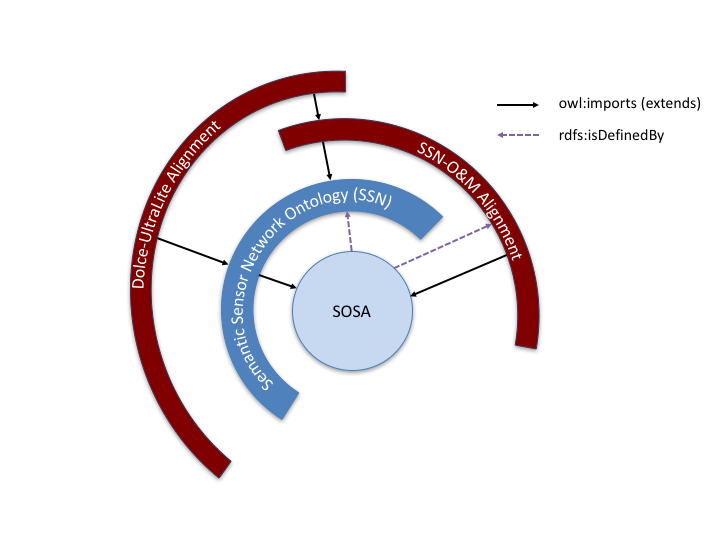
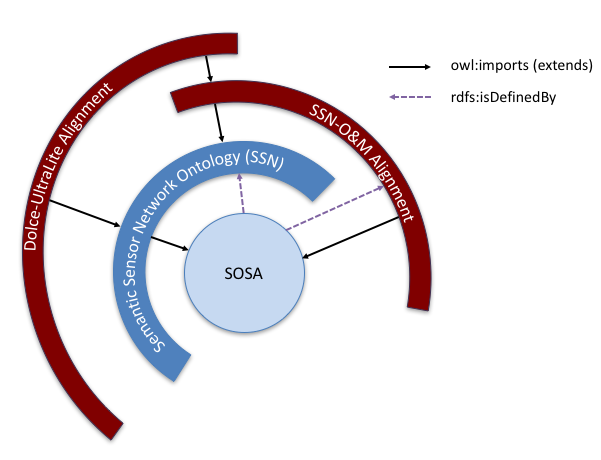
changed modularisation section, small fixes to SOSA

diff --git a/ssn/index.html b/ssn/index.html
@@ -170,17 +170,16 @@ specterm.h3 {
     <section  id="Modularisation"  class="informative">
       <h2>Modularisation</h2>
       <p> </p>
-      <p>One of the major issues <span  data-dobid="hdw">practitioner</span>s
-        raised with the Semantic Sensor Network Ontology as defined in the XG is
+      <p>One of the major issue <span  data-dobid="hdw">practitioners</span> using the Semantic Sensor Network Ontology as defined in the XG is
         its complexity, partly due to the layering underneath the DOLCE
-        UltraLite Upperlevel ontology. This section explains the rationale and
-        method for modularisation of the SSN.</p>
+        UltraLite Upperlevel ontology. In response to this, the new Semantic Sensor Network ontology offers several ontology subsets that are mainly distinguished through their ontological commitment. This section explains the rationale and
+        method for modularising SSN, i.e. offering several ontology files that are similar in their domain of discourse, but with different ontological commitments, suitable to several use cases.</p>
       <p>Ontology modularisation is a common method investigated in ontology
         engineering to segment an ontology into smaller parts. In general,
-        ontology modularization aims at providing users of ontologies with the
+        ontology modularisation aims at providing users of ontologies with the
         knowledge they require, reducing the scope as much as possible to what
         is strictly necessary in a given use case. Two main categories of
-        ontology modularization can be distinguished.</p>
+        ontology modularisation can be distinguished.</p>
       <p>The first category comprises of approaches that focus on the
         composition of existing ontologies by means of integrating and mapping
         ontologies, most commonly through <code>owl:import</code> statements.
@@ -213,8 +212,7 @@ specterm.h3 {
         depending on the directionality of the segmentation.</p>
       <img  alt="Ontology Modules"  src="images/modular_ontology.png">
       <p>Figure 1 gives an overview of the modules of the SSN ontology. The
-        layering of the rings represents two methods of segmentation we
-        distinguish, horizontal and vertical segmentation, as follows:<br>
+        layering of the rings represents a vertical segmentation, as follows:<br>
       </p>
       <h3> Vertical Segmentation</h3>
       <p>Vertical modules are build upon each other, i.e. they directionally <code>owl:import</code>
@@ -224,12 +222,9 @@ specterm.h3 {
         reasoning over its complete stack of vertical ontology modules. However,
         lower level modules are independent of their higher level modules and
         logically consistent.</p>
-      <p>For example, the Dolce-UltraLite Alignment ontology imports the Sensor
-        and Sensing Device Core and the Sensor Network Module. However, in
-        reverse, neither the Sensor and Sensing Device Core nor the Sensor
-        Network Module imports the Dolce-UltraLite Alignment ontology. This
-        makes the Sensor and Sensing Device Core, with its lightweight RDF(s)
-        semantics, truly independent of vertical modules that add more
+      <p>For example, the Dolce-UltraLite Alignment ontology imports the SOSA core and the Semantic Sensor Network Ontology. However, in
+        reverse, neither SOASA nor SSN import the Dolce-UltraLite Alignment ontology. This
+        makes the SOSA core, with its lightweight semantics, truly independent of vertical modules that add more
         expressivity and further ontological commitments.</p>
       <p>Note that higher level here is not to be confused with upper level
         ontologies. Upper level ontologies are general knowledge ontologies that
@@ -237,29 +232,6 @@ specterm.h3 {
         higher level ontologies here refers to an ontology that extends one or
         several ontology modules to capture a larger part of a knowledge domain
         and/or combine knowledge domains.</p>
-      <h3> Horizontal Segmentation</h3>
-      <p>Modules that are horizontally layered do not depend on each other, i.e.
-        they do not rely on the <code>owl:import</code> of another horizontal
-        module to lead to the same answers when reasoning over the module itself
-        as opposed to reasoning over an imported horizontal module. If a concept
-        in a module is connected to a concept in another horizontally layered
-        module through a directional property such as a subClassOf relation or
-        any asymmetric property, the range concept of such a relation has to be
-        included in the module using the URI of the concept as it is defined in
-        the other module.</p>
-      <p>For example, if the Sensor Network Ontology module introduces or
-        semantically refines an <code>madeObservation</code> property that
-        links a <code>Sensor</code> to an <code>Observation</code>, but the <code>Observation</code>
-        class is further refined in the O&amp;M module, the <code>Observation</code>
-        class needs to be introduced in the Sensor Network Ontology using the
-        URI of the <code>Observation</code> class defined in the O&amp;M
-        module, e.g. <span  class="repeated"  style="font-family: courier;">http://www.w3.org/ns/ssn/oml/Observation</span>.
-      </p>
-      <p  class="issue"  data-number="48"> The modularisation as defined below
-        does not reflect the modularisation that is presented here. For example,
-        it is intended that the Sensor and Sensing Device core is an RDF(s)-only
-        vocabulary with modular extensions supporting both expanded terms and
-        expanded expressiveness in the ontology language.</p>
     </section>
    
     <section  id="TheSSNontology"  class="informative">
